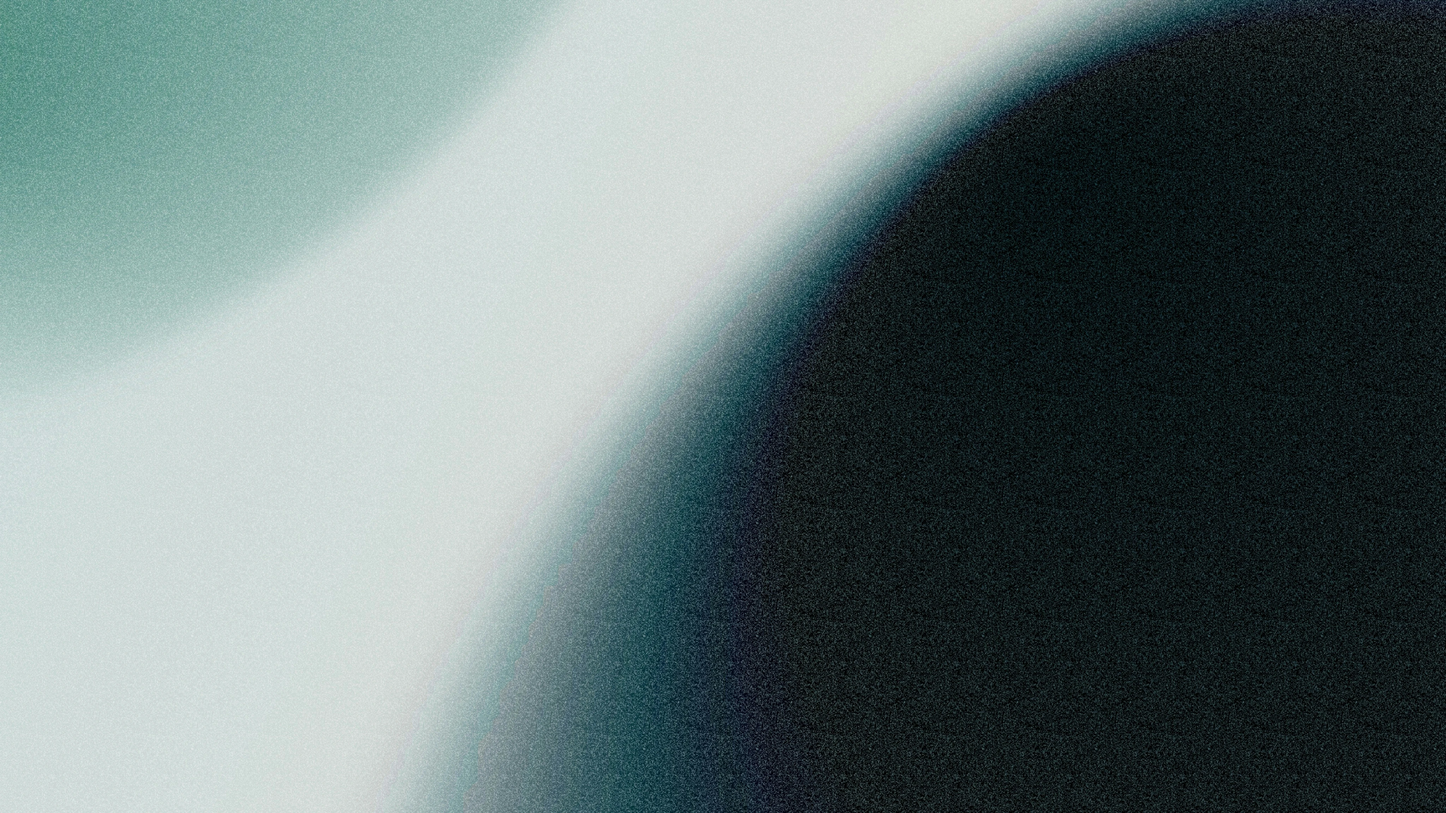
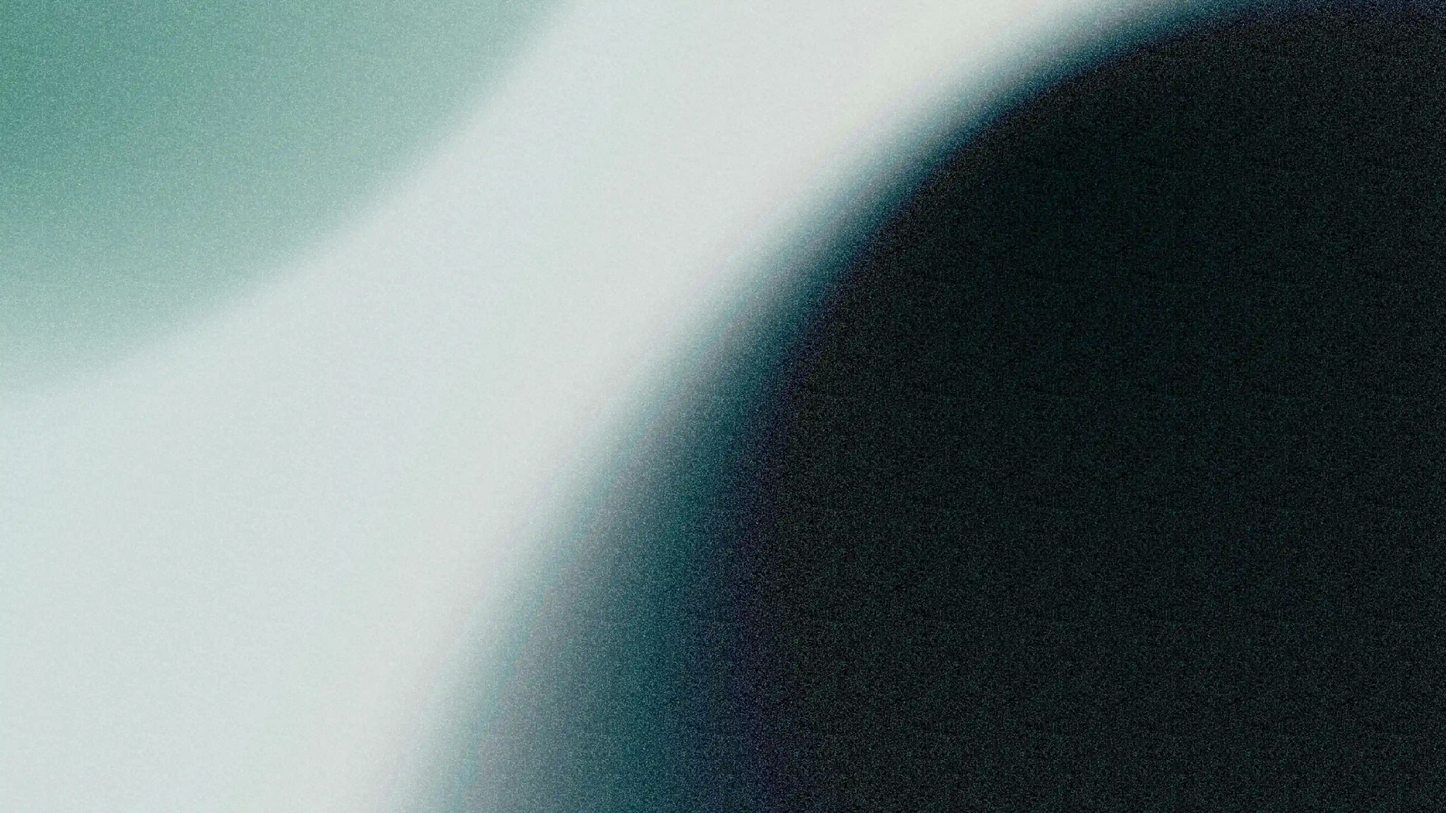
fix: optimized images

diff --git a/src/components/editor/Backgrounds.tsx b/src/components/editor/Backgrounds.tsx
@@ -98,7 +98,7 @@ export const Backgrounds: React.FC = () => {
       name: 'Cosmic Night',
       colors: ['#667eea', '#764ba2'],
       direction: 'to-br',
-      image: '/assets/cosmic_night.png'
+      image: '/assets/cosmic_night.webp'
     },
     {
       name: 'Mint Breeze',
